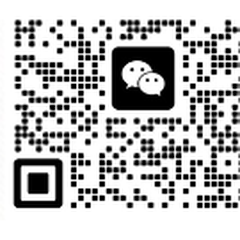
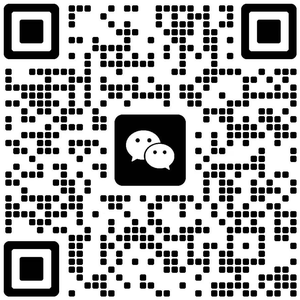
feat: poster redesign - warm beige editorial style with real WeChat QR

diff --git a/daily-brief.html b/daily-brief.html
@@ -418,196 +418,164 @@
     }
 
     /* ══════════════════════════════════════════
-       朋友圈海报卡片（大字报风格，隐藏，仅截图用）
+       朋友圈海报卡片（暖米色大字报风格，隐藏，仅截图用）
     ══════════════════════════════════════════ */
     #posterCard {
       position: fixed;
       left: -9999px;
       top: 0;
       width: 750px;
-      background: #0F0F0F;
-      font-family: 'PingFang SC', 'Inter', -apple-system, sans-serif;
+      background: #F2EDE6;
+      font-family: 'Noto Serif SC', 'PingFang SC', Georgia, serif;
       overflow: hidden;
     }
 
-    /* 顶部品牌栏 */
+    /* ── 海报：顶部品牌栏 ── */
     .pc-topbar {
       display: flex;
       align-items: center;
       justify-content: space-between;
-      padding: 28px 44px 0;
+      padding: 36px 52px 0;
     }
     .pc-brand {
       display: flex;
       align-items: center;
-      gap: 8px;
+      gap: 7px;
     }
     .pc-brand-dot {
-      width: 9px; height: 9px;
+      width: 8px; height: 8px;
       background: #E8715A;
       border-radius: 50%;
     }
     .pc-brand-name {
-      font-size: 12px;
+      font-size: 11px;
       font-weight: 700;
-      color: rgba(255,255,255,0.5);
-      letter-spacing: 0.08em;
+      color: rgba(30,20,10,0.4);
+      letter-spacing: 0.1em;
+      font-family: 'Inter', sans-serif;
     }
     .pc-date-tag {
       font-size: 11px;
-      color: rgba(255,255,255,0.35);
-      font-weight: 400;
+      color: rgba(30,20,10,0.35);
+      font-family: 'Inter', sans-serif;
     }
 
-    /* 大标题区 */
+    /* ── 海报：超大标题区 ── */
     .pc-hero {
-      padding: 32px 44px 28px;
-      border-bottom: 1px solid rgba(255,255,255,0.08);
+      padding: 52px 52px 44px;
+      text-align: center;
     }
     .pc-eyebrow {
-      font-size: 11px;
+      font-size: 12px;
       font-weight: 700;
       color: #E8715A;
-      letter-spacing: 0.12em;
-      text-transform: uppercase;
-      margin-bottom: 14px;
+      letter-spacing: 0.14em;
+      margin-bottom: 28px;
+      font-family: 'Inter', sans-serif;
     }
     .pc-headline {
-      font-size: 42px;
+      font-size: 58px;
       font-weight: 900;
-      color: #FFFFFF;
-      line-height: 1.15;
-      margin-bottom: 16px;
-      letter-spacing: -0.01em;
+      color: #1A1208;
+      line-height: 1.18;
+      margin-bottom: 28px;
+      letter-spacing: -0.02em;
     }
     .pc-headline em {
       font-style: normal;
       color: #E8715A;
     }
     .pc-subline {
-      font-size: 15px;
-      color: rgba(255,255,255,0.55);
-      line-height: 1.6;
+      font-size: 18px;
+      color: rgba(30,20,10,0.55);
+      line-height: 1.65;
       font-weight: 400;
+      font-family: 'PingFang SC', sans-serif;
+      max-width: 560px;
+      margin: 0 auto;
     }
 
-    /* 数据亮点行 */
-    .pc-stats {
-      display: flex;
-      gap: 0;
-      border-bottom: 1px solid rgba(255,255,255,0.08);
-    }
-    .pc-stat {
-      flex: 1;
-      padding: 22px 24px;
-      border-right: 1px solid rgba(255,255,255,0.08);
-    }
-    .pc-stat:last-child { border-right: none; }
-    .pc-stat-num {
-      font-size: 28px;
-      font-weight: 900;
-      color: #FFFFFF;
-      line-height: 1;
-      margin-bottom: 5px;
-    }
-    .pc-stat-num span { font-size: 14px; font-weight: 500; color: rgba(255,255,255,0.4); }
-    .pc-stat-label {
-      font-size: 11px;
-      color: rgba(255,255,255,0.4);
-      font-weight: 500;
+    /* ── 海报：装饰分隔线 ── */
+    .pc-divider {
+      margin: 0 52px;
+      height: 1px;
+      background: rgba(30,20,10,0.1);
     }
 
-    /* 今日重点 */
+    /* ── 海报：重点列表 ── */
     .pc-section {
-      padding: 28px 44px;
-      border-bottom: 1px solid rgba(255,255,255,0.08);
+      padding: 36px 52px;
     }
     .pc-section-title {
       font-size: 10px;
       font-weight: 700;
-      color: rgba(255,255,255,0.3);
-      letter-spacing: 0.12em;
-      text-transform: uppercase;
-      margin-bottom: 18px;
+      color: rgba(30,20,10,0.3);
+      letter-spacing: 0.14em;
+      margin-bottom: 20px;
+      font-family: 'Inter', sans-serif;
     }
     .pc-news-list {
       display: flex;
       flex-direction: column;
-      gap: 14px;
+      gap: 16px;
     }
     .pc-news-item {
       display: flex;
-      gap: 14px;
+      gap: 16px;
       align-items: flex-start;
     }
     .pc-news-num {
-      font-size: 11px;
-      font-weight: 800;
+      font-size: 13px;
+      font-weight: 900;
       color: #E8715A;
-      width: 20px;
+      width: 24px;
       flex-shrink: 0;
-      padding-top: 2px;
+      padding-top: 1px;
+      font-family: 'Inter', sans-serif;
     }
     .pc-news-body {}
     .pc-news-title {
-      font-size: 16px;
+      font-size: 17px;
       font-weight: 700;
-      color: #FFFFFF;
-      line-height: 1.4;
+      color: #1A1208;
+      line-height: 1.45;
       margin-bottom: 4px;
     }
     .pc-news-summary {
-      font-size: 12px;
-      color: rgba(255,255,255,0.45);
+      font-size: 13px;
+      color: rgba(30,20,10,0.5);
       line-height: 1.6;
+      font-family: 'PingFang SC', sans-serif;
     }
 
-    /* 标签行 */
-    .pc-tags {
-      padding: 18px 44px;
-      display: flex;
-      flex-wrap: wrap;
-      gap: 8px;
-      border-bottom: 1px solid rgba(255,255,255,0.08);
-    }
-    .pc-tag {
-      font-size: 11px;
-      font-weight: 600;
-      padding: 5px 12px;
-      border-radius: 20px;
-      border: 1px solid rgba(255,255,255,0.12);
-      color: rgba(255,255,255,0.5);
-    }
-    .pc-tag.hot {
-      background: rgba(232,113,90,0.15);
-      border-color: rgba(232,113,90,0.4);
-      color: #E8715A;
-    }
-
-    /* 底部 footer */
+    /* ── 海报：底部 footer ── */
     .pc-footer {
-      padding: 22px 44px;
+      padding: 28px 52px 40px;
       display: flex;
       align-items: center;
       justify-content: space-between;
+      border-top: 1px solid rgba(30,20,10,0.1);
+      margin-top: 8px;
     }
     .pc-footer-left {}
     .pc-footer-author {
-      font-size: 15px;
-      font-weight: 700;
-      color: #FFFFFF;
-      margin-bottom: 3px;
+      font-size: 18px;
+      font-weight: 800;
+      color: #1A1208;
+      margin-bottom: 4px;
     }
     .pc-footer-desc {
-      font-size: 11px;
-      color: rgba(255,255,255,0.35);
-      line-height: 1.5;
+      font-size: 12px;
+      color: rgba(30,20,10,0.45);
+      line-height: 1.6;
+      font-family: 'PingFang SC', sans-serif;
     }
     .pc-footer-cta {
-      font-size: 11px;
+      font-size: 13px;
       color: #E8715A;
-      font-weight: 600;
-      margin-top: 6px;
+      font-weight: 700;
+      margin-top: 8px;
+      font-family: 'PingFang SC', sans-serif;
     }
     .pc-qr-wrap {
       display: flex;
@@ -616,16 +584,19 @@
       gap: 6px;
     }
     .pc-qr-img {
-      width: 80px;
-      height: 80px;
-      border-radius: 8px;
+      width: 96px;
+      height: 96px;
+      border-radius: 6px;
       background: #fff;
       display: block;
+      border: 3px solid #fff;
+      box-shadow: 0 2px 12px rgba(0,0,0,0.1);
     }
     .pc-qr-label {
       font-size: 10px;
-      color: rgba(255,255,255,0.35);
+      color: rgba(30,20,10,0.4);
       text-align: center;
+      font-family: 'PingFang SC', sans-serif;
     }
 
     /* 下载遮罩 */
@@ -854,12 +825,12 @@ function scrollToSection(id) {
 
 // ── 生成朋友圈海报（大字报风格）──
 function buildPosterHTML(data) {
-  // 取最重磅的 high 级新闻作为主标题，fallback 到第一条
-  const allNews = (data.sections || []).flatMap(s => s.news.map(n => ({...n, sectionTitle: s.title, sectionIcon: s.icon})));
+  // 取最重磅新闻作主标题
+  const allNews = (data.sections || []).flatMap(s => s.news.map(n => ({...n})));
   const topNews = allNews[0] || { title: '医美行业最新动态', summary: '' };
 
-  // 提取标题中的关键词做高亮（取前半句）
-  const titleParts = topNews.title.split(/[，,、]/); 
+  // 拆分标题：逗号前为黑色主句，逗号后为橙色副句
+  const titleParts = topNews.title.split(/[，,、]/);
   const headlineMain = titleParts[0] || topNews.title;
   const headlineSub  = titleParts.slice(1).join('，') || '';
 
@@ -878,14 +849,6 @@ function buildPosterHTML(data) {
     </div>
   `).join('');
 
-  // 各板块标签
-  const sectionTags = (data.sections || []).map((s, i) => `
-    <div class="pc-tag${i < 2 ? ' hot' : ''}">${s.icon} ${s.title}</div>
-  `).join('');
-
-  const totalNews = (data.sections || []).reduce((a, s) => a + (s.news?.length || 0), 0);
-  const highCount = (data.priorities || []).filter(p => p.level === 'high').length;
-
   return `
     <!-- 顶部品牌栏 -->
     <div class="pc-topbar">
@@ -896,44 +859,27 @@ function buildPosterHTML(data) {
       <div class="pc-date-tag">${data.date}</div>
     </div>
 
-    <!-- 大标题 -->
+    <!-- 超大标题 -->
     <div class="pc-hero">
       <div class="pc-eyebrow">医美行业日报 · 今日速览</div>
-      <div class="pc-headline"><em>${headlineMain}</em>${headlineSub ? '<br>' + headlineSub : ''}</div>
-      <div class="pc-subline">${topNews.summary ? topNews.summary.slice(0, 80) + '…' : '每日精选医美行业最重要动态，助力从业者快速决策'}</div>
+      <div class="pc-headline">${headlineMain}${headlineSub ? '<br><em>' + headlineSub + '</em>' : ''}</div>
+      <div class="pc-subline">${topNews.summary ? topNews.summary.slice(0, 72) + '…' : '每日精选医美行业最重要动态，助力从业者快速决策'}</div>
     </div>
 
-    <!-- 数据亮点 -->
-    <div class="pc-stats">
-      <div class="pc-stat">
-        <div class="pc-stat-num">${totalNews}<span> 条</span></div>
-        <div class="pc-stat-label">今日动态</div>
-      </div>
-      <div class="pc-stat">
-        <div class="pc-stat-num">${highCount}<span> 项</span></div>
-        <div class="pc-stat-label">高优先级事项</div>
-      </div>
-      <div class="pc-stat">
-        <div class="pc-stat-num">${(data.sections || []).length}<span> 个</span></div>
-        <div class="pc-stat-label">覆盖板块</div>
-      </div>
-    </div>
+    <div class="pc-divider"></div>
 
     <!-- 今日重点 -->
     <div class="pc-section">
-      <div class="pc-section-title">今日重点关注</div>
+      <div class="pc-section-title">TODAY'S HIGHLIGHTS</div>
       <div class="pc-news-list">${newsListHTML}</div>
     </div>
-
-    <!-- 板块标签 -->
-    <div class="pc-tags">${sectionTags}</div>
 
     <!-- 底部 -->
     <div class="pc-footer">
       <div class="pc-footer-left">
         <div class="pc-footer-author">陈萱宜</div>
         <div class="pc-footer-desc">系统 × AI 智慧增长架构师<br>MedAgent Hub 医美 AI 工作台</div>
-        <div class="pc-footer-cta">↑ 扫码加微信，获取内测邀请码</div>
+        <div class="pc-footer-cta">扫码加微信，获取内测邀请码 →</div>
       </div>
       <div class="pc-qr-wrap">
         <img class="pc-qr-img" src="/qrcode-wechat.png" crossorigin="anonymous" />
